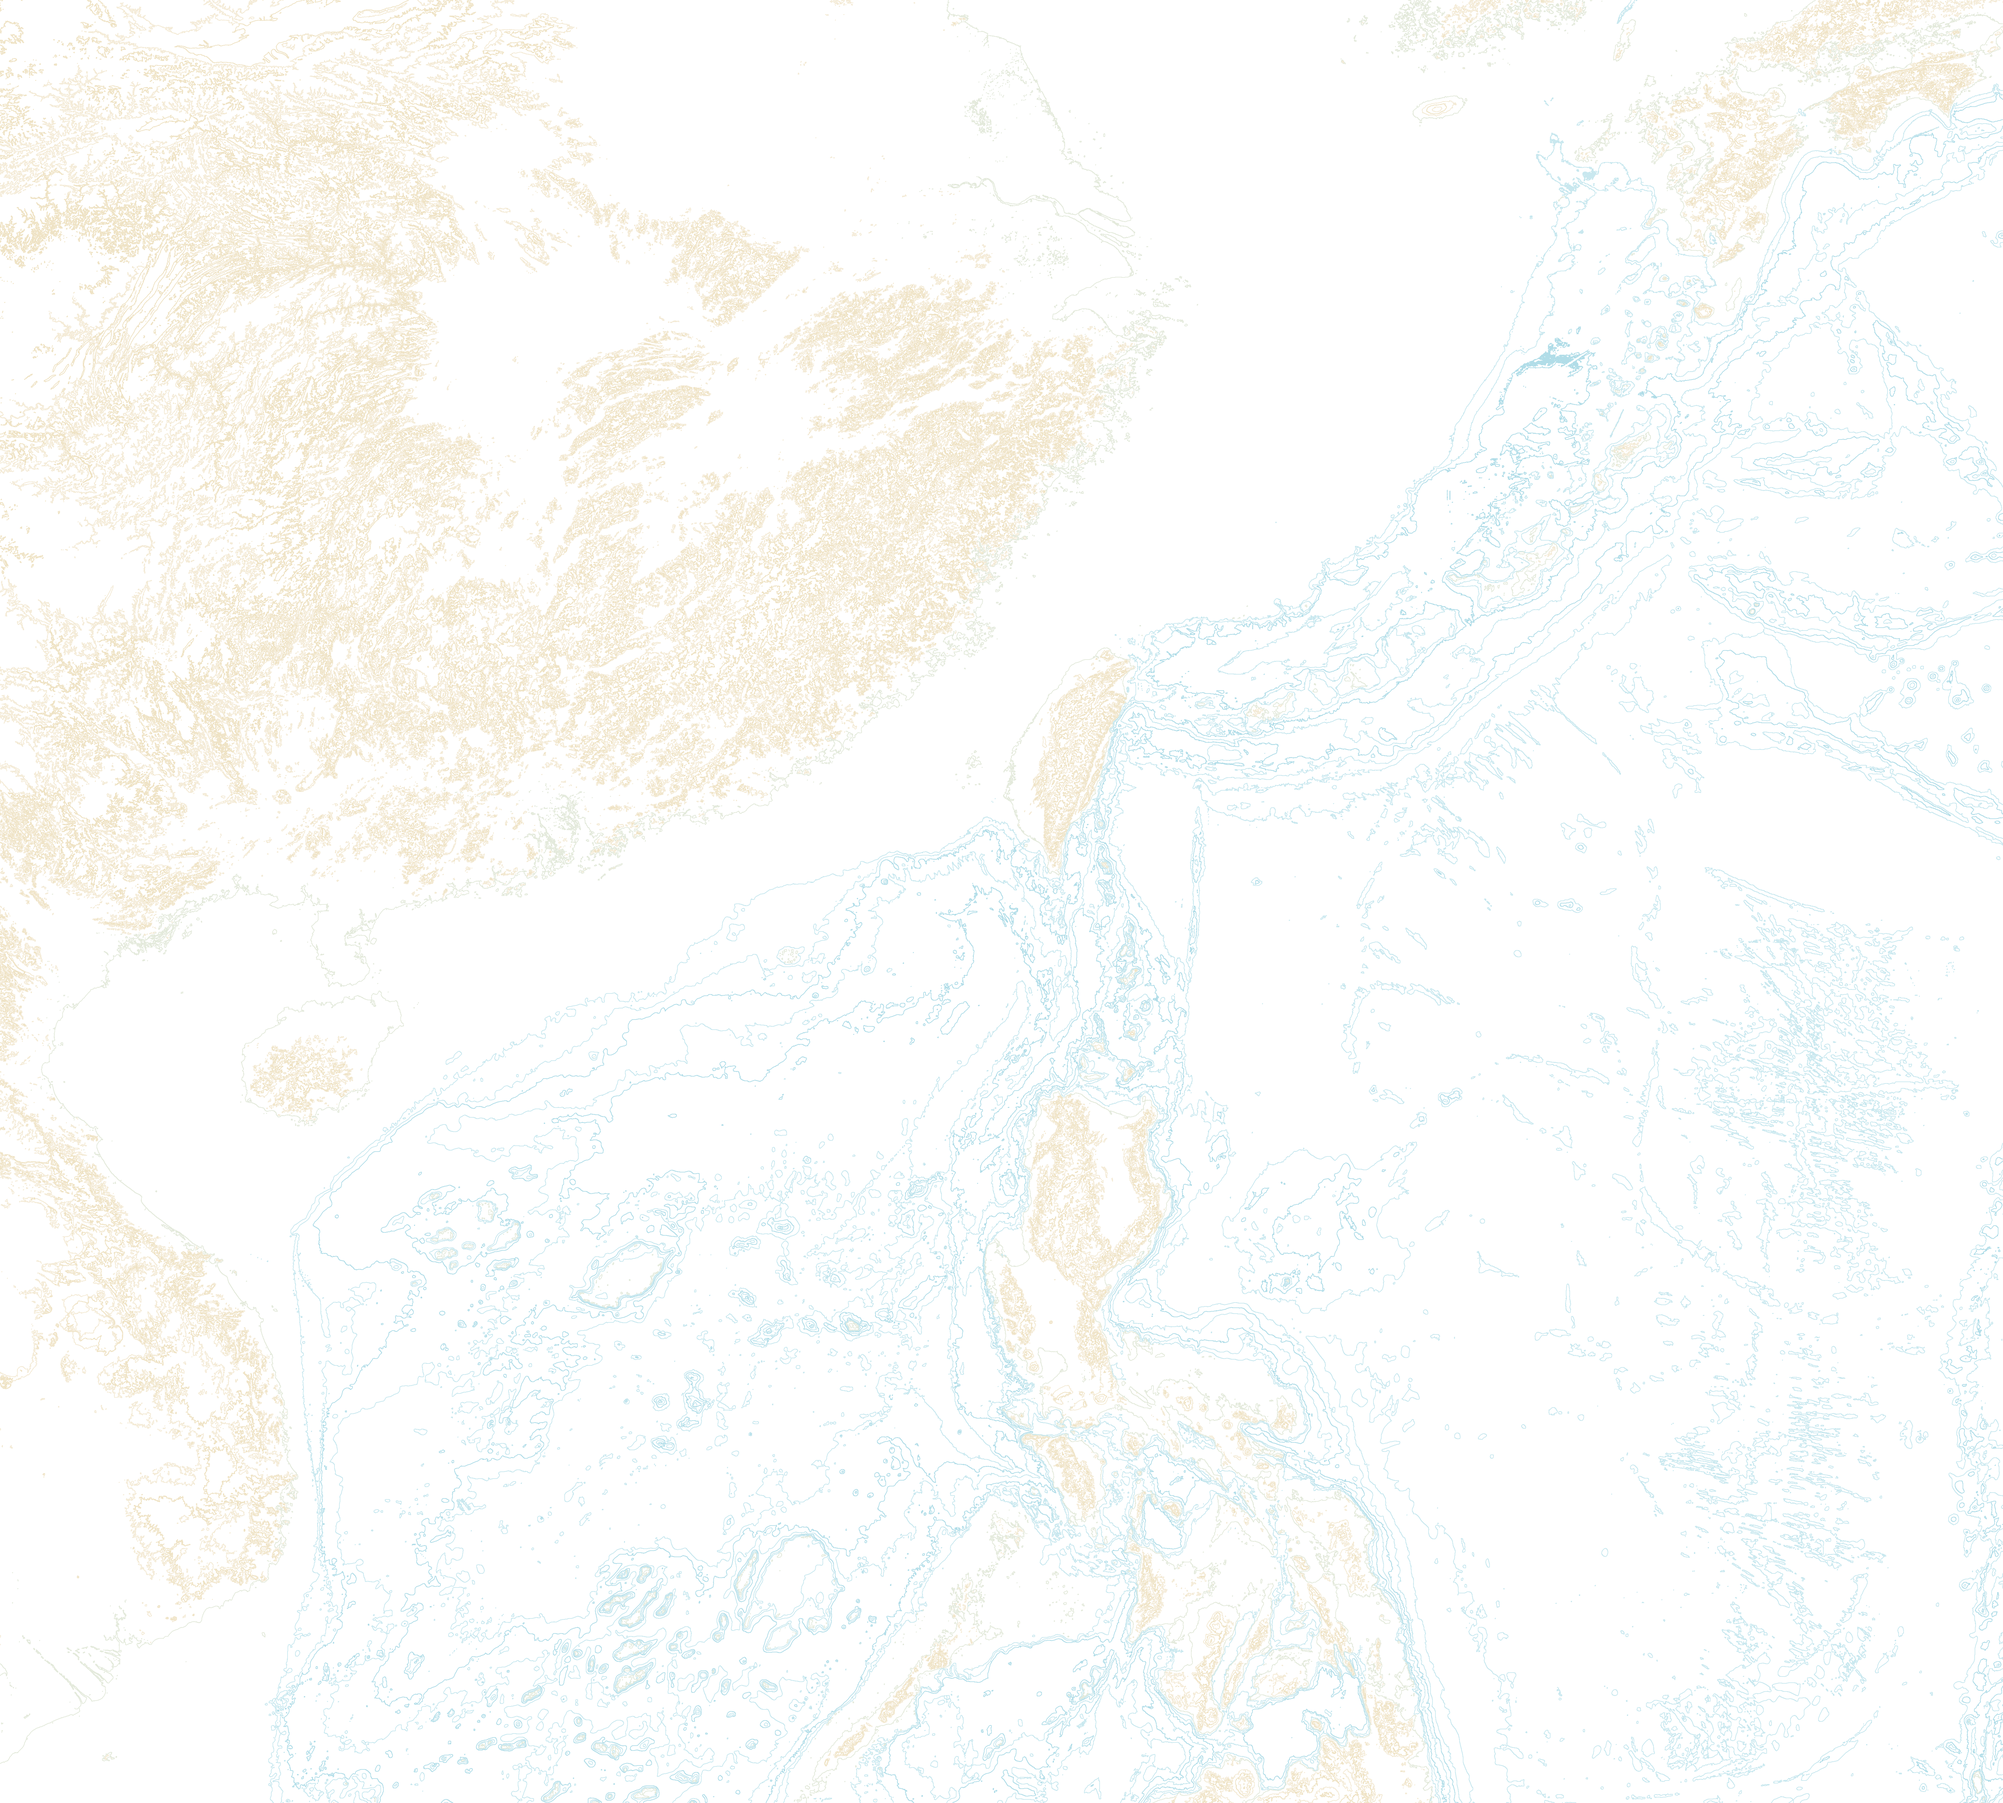
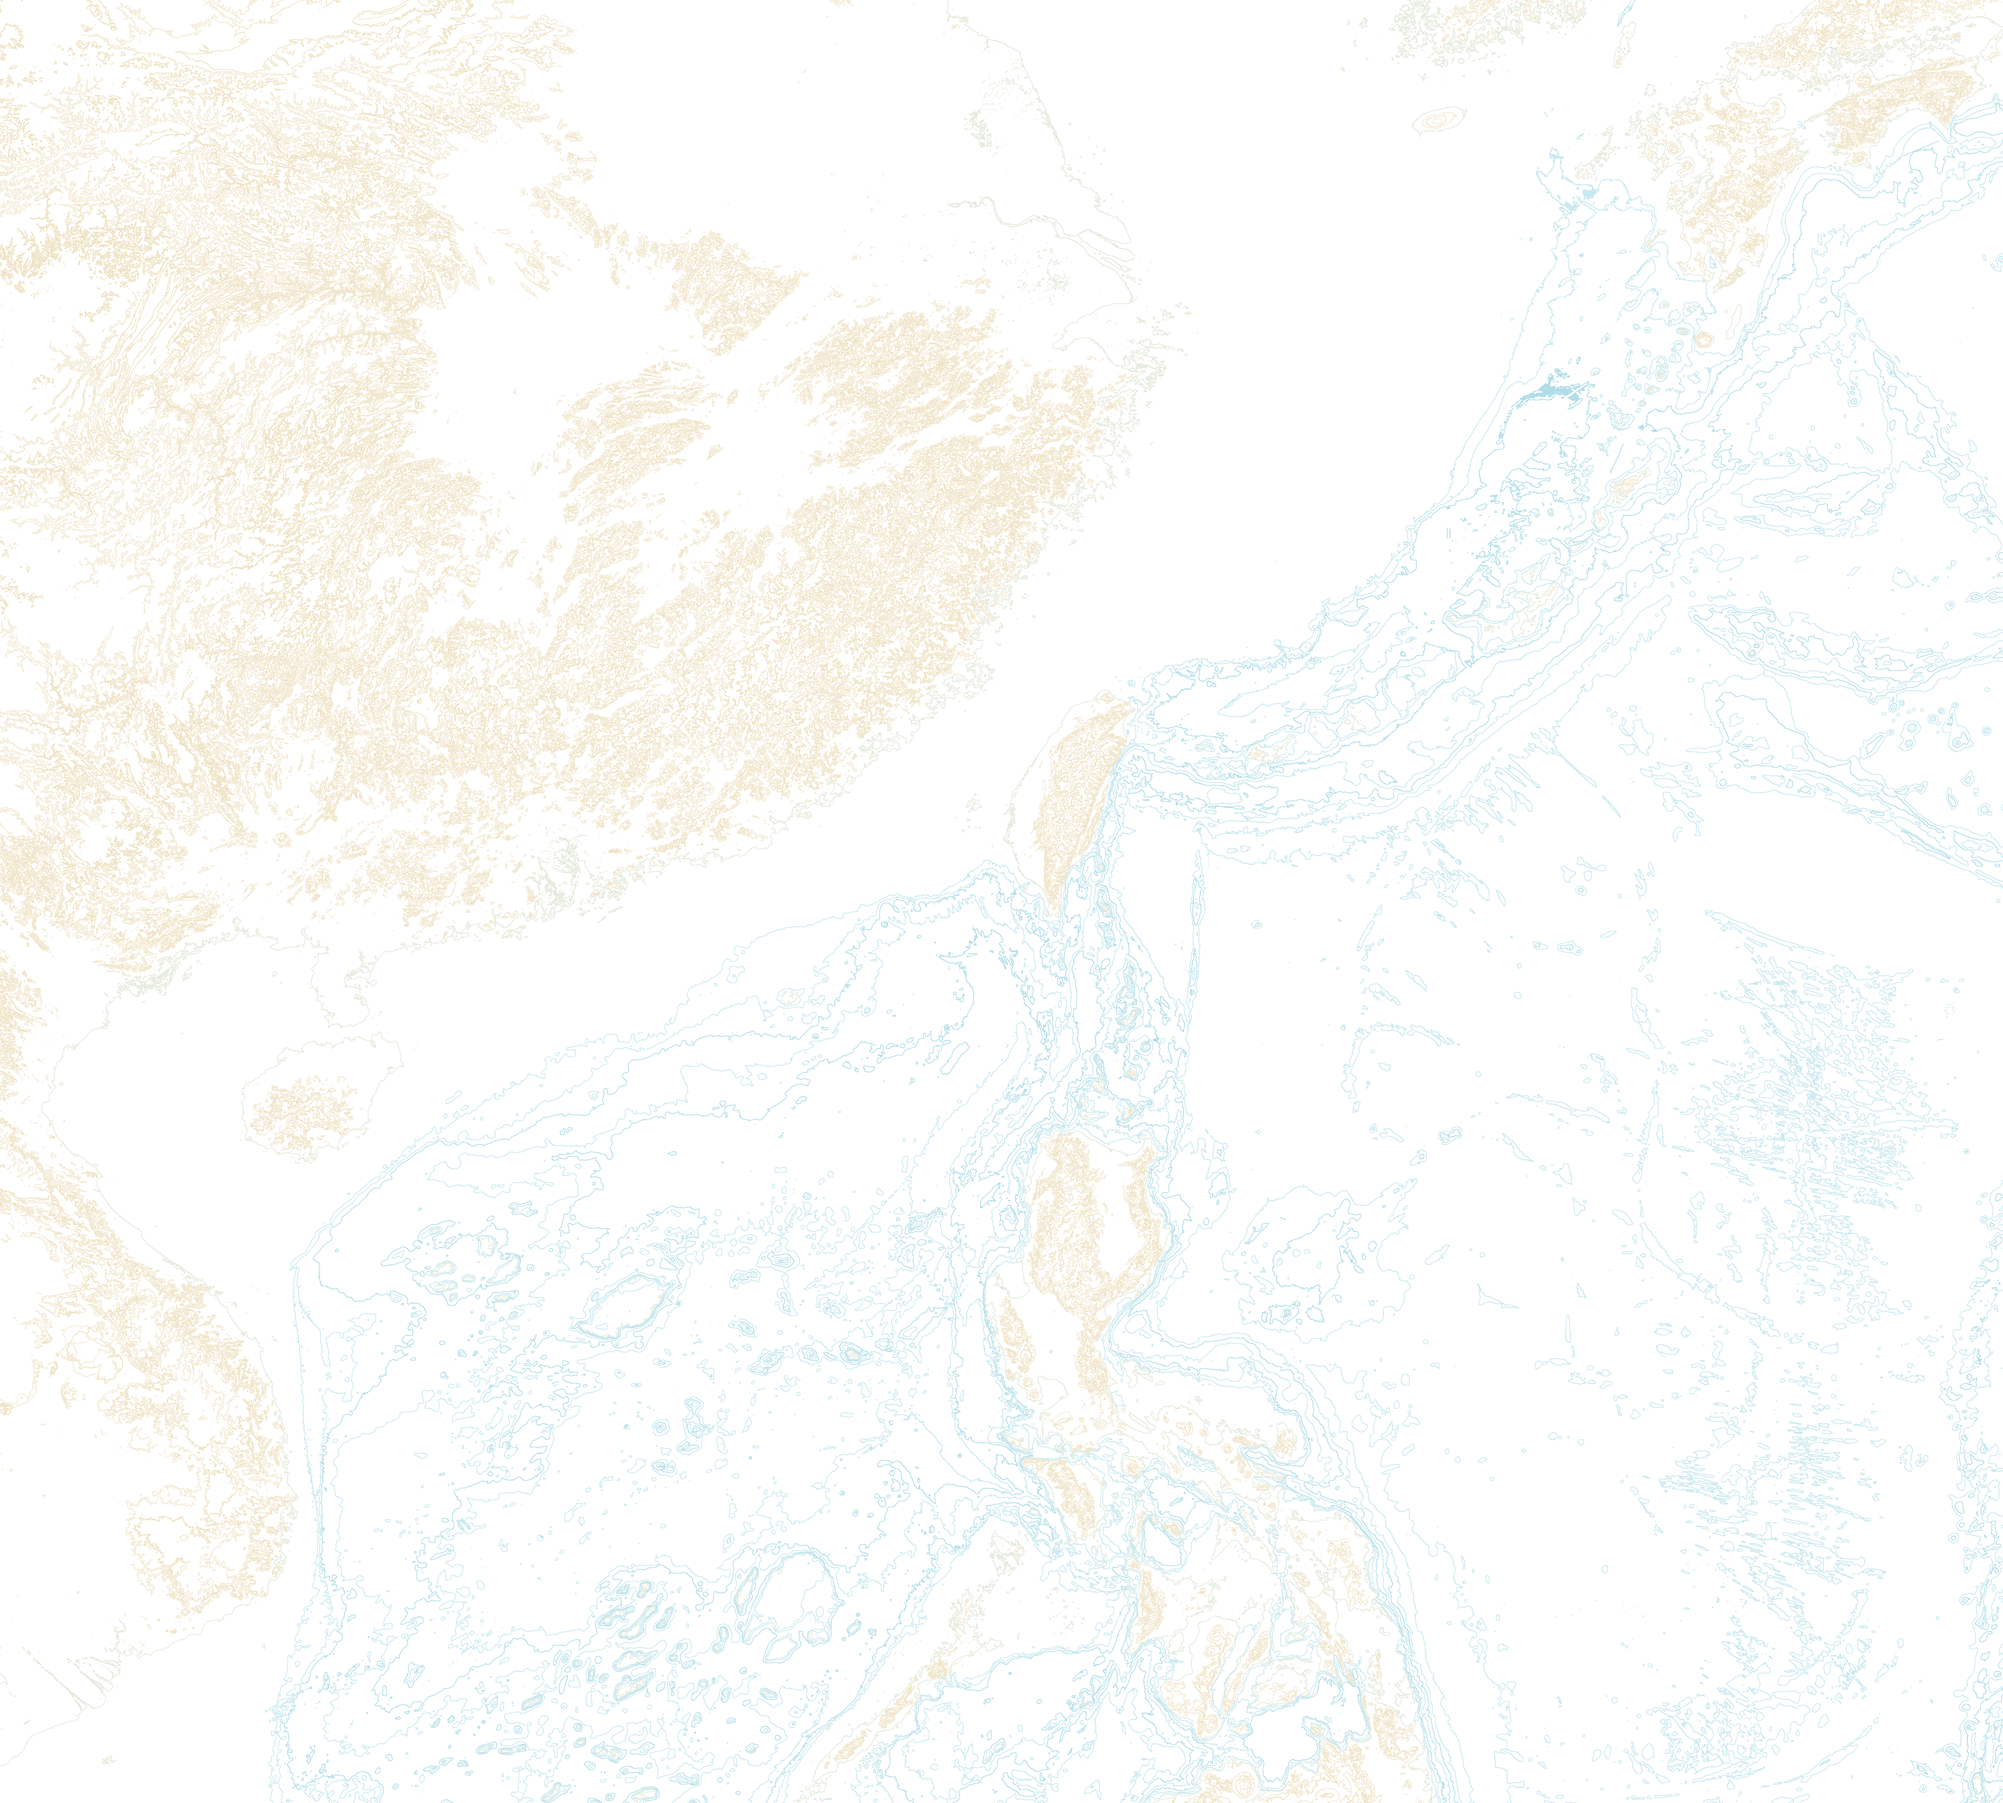
fix(amos): align relief with map projection

diff --git a/amos-platform/static/js/map/platform-map.js b/amos-platform/static/js/map/platform-map.js
@@ -364,8 +364,9 @@ window.PlatformMap = (function () {
         var kind = config.kind || name;
         var layerBounds = config.bounds || bounds;
         var imageBounds = [[layerBounds.south, layerBounds.west], [layerBounds.north, layerBounds.east]];
+        var cacheSuffix = manifest.cache_version ? "?v=" + encodeURIComponent(manifest.cache_version) : "";
         removeLayer(reliefLayers[name]);
-        reliefLayers[name] = L.imageOverlay(basePath + config.path, imageBounds, {
+        reliefLayers[name] = L.imageOverlay(basePath + config.path + cacheSuffix, imageBounds, {
           pane: panes[kind] || "terrainPane",
           className: classes[kind] || "",
           opacity: 0,

diff --git a/amos-platform/templates/dashboard.html b/amos-platform/templates/dashboard.html
@@ -339,7 +339,7 @@
 
 <script src="/static/js/api/platform-api.js?v=20260817d"></script>
 <script src="/static/js/map/tactical-symbols.js?v=20260825b"></script>
-<script src="/static/js/map/platform-map.js?v=20260825b"></script>
+<script src="/static/js/map/platform-map.js?v=20260825c"></script>
 <script src="/static/js/panels/platform-panels.js?v=20260818a"></script>
 <script src="/static/js/workflow/commander-workflow.js?v=20260820a"></script>
 <script src="/static/js/app/platform.js?v=20260825b"></script>

diff --git a/amos-platform/scripts/build_offline_relief.py b/amos-platform/scripts/build_offline_relief.py
@@ -128,9 +128,49 @@ def _mosaic_sources(paths: list[Path]) -> np.ndarray:
     return values
 
 
-def _resize_float(values: np.ndarray, size: tuple[int, int]) -> np.ndarray:
-    image = Image.fromarray(values, mode="F")
-    return np.asarray(image.resize(size, Image.Resampling.BICUBIC), dtype=np.float32)
+def _mercator_y(latitude: float | np.ndarray) -> float | np.ndarray:
+    radians = np.deg2rad(latitude)
+    return np.log(np.tan(np.pi / 4.0 + radians / 2.0))
+
+
+def _resize_web_mercator(
+    values: np.ndarray,
+    bounds: dict[str, float],
+    size: tuple[int, int],
+) -> np.ndarray:
+    """Resample an EPSG:4326 grid for affine display in a Leaflet image overlay."""
+    width, height = size
+    horizontal = np.asarray(
+        Image.fromarray(values, mode="F").resize(
+            (width, values.shape[0]),
+            Image.Resampling.BICUBIC,
+        ),
+        dtype=np.float32,
+    )
+
+    north_y = _mercator_y(bounds["north"])
+    south_y = _mercator_y(bounds["south"])
+    fractions = (np.arange(height, dtype=np.float64) + 0.5) / height
+    projected_y = north_y + fractions * (south_y - north_y)
+    latitudes = np.rad2deg(np.arctan(np.sinh(projected_y)))
+    source_rows = (
+        (bounds["north"] - latitudes)
+        / (bounds["north"] - bounds["south"])
+        * values.shape[0]
+        - 0.5
+    )
+    source_rows = np.clip(source_rows, 0.0, values.shape[0] - 1.0)
+    row_before = np.floor(source_rows).astype(np.int32)
+    row_after = np.minimum(row_before + 1, values.shape[0] - 1)
+    weights = (source_rows - row_before).astype(np.float32)
+
+    projected = np.empty((height, width), dtype=np.float32)
+    for row in range(height):
+        projected[row] = (
+            horizontal[row_before[row]] * (1.0 - weights[row])
+            + horizontal[row_after[row]] * weights[row]
+        )
+    return projected
 
 
 def _colorize(values: np.ndarray) -> Image.Image:
@@ -205,13 +245,19 @@ def _crop_mosaic(values: np.ndarray, bounds: dict[str, float]) -> np.ndarray:
 
 def build(sources: list[Path], output: Path) -> None:
     native = _mosaic_sources(sources)
-    values = _resize_float(native, OUTPUT_SIZE)
-    detail_values = _resize_float(_crop_mosaic(native, DETAIL_BOUNDS), DETAIL_SIZE)
+    values = _resize_web_mercator(native, BOUNDS, OUTPUT_SIZE)
+    detail_values = _resize_web_mercator(
+        _crop_mosaic(native, DETAIL_BOUNDS),
+        DETAIL_BOUNDS,
+        DETAIL_SIZE,
+    )
     _write_layers(values, output)
     _write_layers(detail_values, output / "detail")
     manifest = {
         "schema_version": "amos.offline-relief.v1",
         "pack_id": "east-asia-western-pacific-etopo2022-v3",
+        "projection": "EPSG:3857",
+        "cache_version": "20260825c",
         "bounds": BOUNDS,
         "native_resolution_arc_seconds": 15,
         "render_size": {"width": OUTPUT_SIZE[0], "height": OUTPUT_SIZE[1]},
@@ -223,19 +269,19 @@ def build(sources: list[Path], output: Path) -> None:
             "terrain": {
                 "path": "terrain-bathymetry.png",
                 "kind": "terrain",
-                "max_zoom": 7,
+                "max_zoom": 8,
                 "default_visible": True,
             },
             "hillshade": {
                 "path": "hillshade.png",
                 "kind": "hillshade",
-                "max_zoom": 7,
+                "max_zoom": 8,
                 "default_visible": True,
             },
             "contours": {
                 "path": "contours.png",
                 "kind": "contours",
-                "max_zoom": 7,
+                "max_zoom": 8,
                 "default_visible": True,
             },
             "terrain_detail": {
@@ -243,7 +289,7 @@ def build(sources: list[Path], output: Path) -> None:
                 "kind": "terrain",
                 "bounds": DETAIL_BOUNDS,
                 "render_size": {"width": DETAIL_SIZE[0], "height": DETAIL_SIZE[1]},
-                "min_zoom": 8,
+                "min_zoom": 9,
                 "default_visible": True,
             },
             "hillshade_detail": {
@@ -251,7 +297,7 @@ def build(sources: list[Path], output: Path) -> None:
                 "kind": "hillshade",
                 "bounds": DETAIL_BOUNDS,
                 "render_size": {"width": DETAIL_SIZE[0], "height": DETAIL_SIZE[1]},
-                "min_zoom": 8,
+                "min_zoom": 9,
                 "default_visible": True,
             },
             "contours_detail": {
@@ -259,7 +305,7 @@ def build(sources: list[Path], output: Path) -> None:
                 "kind": "contours",
                 "bounds": DETAIL_BOUNDS,
                 "render_size": {"width": DETAIL_SIZE[0], "height": DETAIL_SIZE[1]},
-                "min_zoom": 8,
+                "min_zoom": 9,
                 "default_visible": True,
             },
         },

diff --git a/amos-platform/tests/test_offline_map_pack.py b/amos-platform/tests/test_offline_map_pack.py
@@ -16,14 +16,16 @@ def test_relief_pack_is_complete_and_runtime_offline() -> None:
     manifest = json.loads((PACK / "manifest.json").read_text(encoding="utf-8"))
 
     assert manifest["schema_version"] == "amos.offline-relief.v1"
+    assert manifest["projection"] == "EPSG:3857"
+    assert manifest["cache_version"]
     assert manifest["runtime_network_required"] is False
     assert manifest["source"]["doi"] == "10.25921/fd45-gt74"
     assert len(manifest["source"]["source_tiles"]) == 6
     assert all(len(tile["sha256"]) == 64 for tile in manifest["source"]["source_tiles"])
     expected_kinds = {"terrain", "hillshade", "contours"}
     assert {layer["kind"] for layer in manifest["layers"].values()} == expected_kinds
-    assert sum(layer.get("max_zoom") == 7 for layer in manifest["layers"].values()) == 3
-    assert sum(layer.get("min_zoom") == 8 for layer in manifest["layers"].values()) == 3
+    assert sum(layer.get("max_zoom") == 8 for layer in manifest["layers"].values()) == 3
+    assert sum(layer.get("min_zoom") == 9 for layer in manifest["layers"].values()) == 3
     for layer in manifest["layers"].values():
         path = PACK / layer["path"]
         assert path.is_file()
@@ -44,6 +46,7 @@ def test_relief_pack_covers_active_scenario_and_is_served_locally() -> None:
     map_script = (ROOT / "static/js/map/platform-map.js").read_text(encoding="utf-8")
     assert scenario["theater"]["theater_id"] in map_script
     assert "/static/assets/maps/taiwan-se-relief/manifest.json" in map_script
+    assert "manifest.cache_version" in map_script
     assert "Boolean(configuredRelief)" in map_script
 
     app = create_app()
